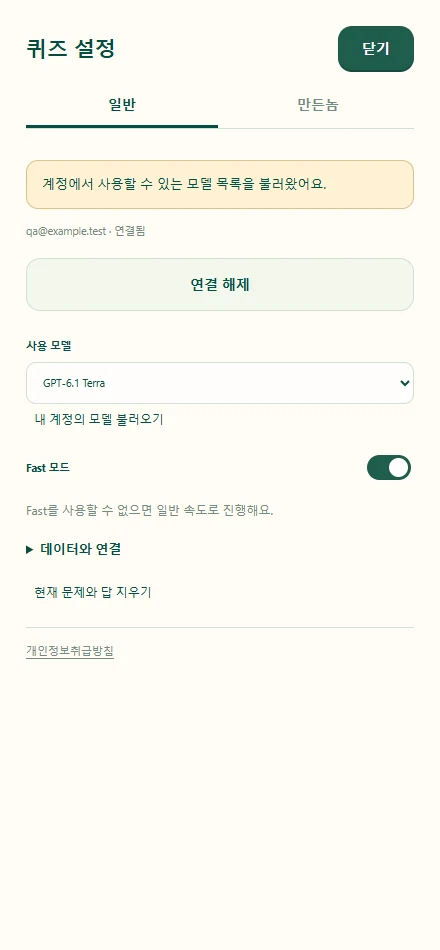
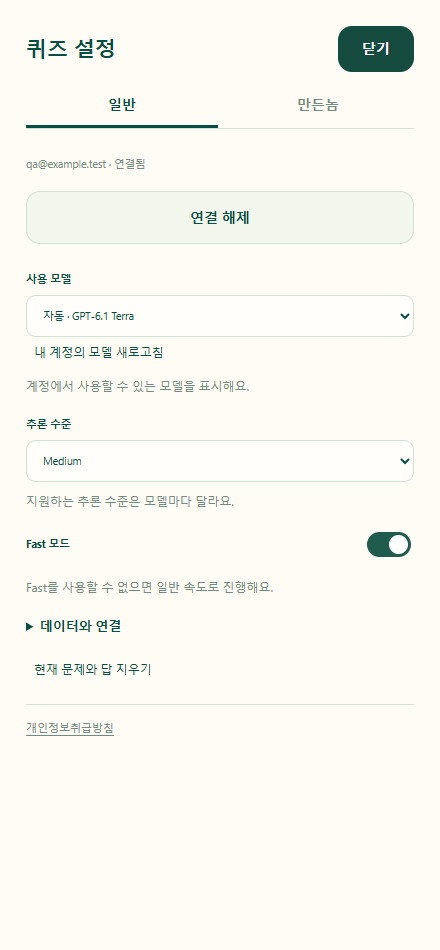
Release Day 018 0.1.10 with account model defaults

diff --git a/day-018-namuwiki-ox/extension/sidepanel.js b/day-018-namuwiki-ox/extension/sidepanel.js
@@ -1,11 +1,13 @@
 import {extractArticle} from './extract.js';
-import {models,generateQuiz} from './provider.js';
+import {DEFAULT_EFFORT,models,generateQuiz} from './provider.js';
 import {DEFAULT_MODEL,questionCount,isArticleUrl,validateArticle,score} from './shared/quiz.mjs';
 const $=id=>document.getElementById(id);
 const el=(tag,text)=>{const n=document.createElement(tag);n.textContent=text;return n;};
 let auth={},article=null,report=null,questions=[],answers={},index=0,sourceTabId=null,busy=false,reading=false,controller=null;
 let view='welcome',contextSupported=false,contextRevision=0,generationTimer=null,generationStartedAt=0;
 let articleIssue='';
+const LUNA_MODEL='gpt-6-luna';
+let preferredModel='',defaultModel='',modelIssue='',modelRequest=null;
 const windowId=(await chrome.windows.getCurrent()).id;
 const sessionKey=`quiz-window-${windowId}`;
 async function rpc(type){const r=await chrome.runtime.sendMessage({type});if(!r?.ok)throw Error(r?.error || '연결 요청을 완료하지 못했어요.');return r.data;}
@@ -67,11 +69,14 @@ function generationStage(stage){
   stages.forEach((name,i)=>{const node=$(`stage-${name}`);node.classList.toggle('done',i<current);node.classList.toggle('current',i===current);if(i===current)node.setAttribute('aria-current','step');else node.removeAttribute('aria-current');});
 }
 function controls(){
-  $('generate').disabled=busy || reading || !contextSupported || !auth.sharing || !article || !!articleIssue || !$('count').validity.valid;
-  $('generate').textContent=reading?'본문 읽는 중…':articleIssue || '퀴즈 만들기';
-  $('generate').classList.toggle('unavailable',!!articleIssue);
-  $('generate').title=articleIssue;
-  for(const id of ['count','model','fast','reload-models','clear-quiz'])$(id).disabled=busy || reading;
+  const issue=articleIssue || modelIssue;
+  $('generate').disabled=busy || reading || !contextSupported || !auth.sharing || !article || !!issue || !$('count').validity.valid;
+  $('generate').textContent=reading?'본문 읽는 중…':issue || '퀴즈 만들기';
+  $('generate').classList.toggle('unavailable',!!issue && !reading);
+  $('generate').title=issue;
+  for(const id of ['count','effort','fast','clear-quiz'])$(id).disabled=busy || reading;
+  $('model').disabled=busy || !!modelRequest || $('model').options.length===1;
+  $('reload-models').disabled=busy || !auth.sharing || !!modelRequest;
   $('minus').disabled=busy || Number($('count').value)<=5;$('plus').disabled=busy || Number($('count').value)>=20;
   $('stop').disabled=!busy;renderView();
 }
@@ -80,14 +85,22 @@ async function save(){
   await chrome.storage.session.set({[sessionKey]:{report,questions,answers,index,sourceTabId,view}});
 }
 function clear(){controller?.abort();contextRevision++;reading=false;article=null;articleIssue='';report=null;questions=[];answers={};index=0;sourceTabId=null;view='welcome';void chrome.storage.session.remove(sessionKey);$('article-title').textContent='나무위키 문서를 열어 주세요';$('article-info').textContent='본문에서만 출제해요';controls();}
-async function refreshAuth(){
+async function refreshAuth({reloadModels=false}={}){
   const was=auth.sharing;auth=await rpc('auth.status');
   $('login-gate').hidden=!!auth.sharing;$('workspace').hidden=!auth.sharing;
   for(const id of ['login','gate-login'])$(id).hidden=!!auth.pending || !!auth.sharing;
   for(const id of ['cancel-login','gate-cancel'])$(id).hidden=!auth.pending;
   $('logout').hidden=!auth.connected;
   $('account-status').textContent=auth.pending?'열린 탭에서 ChatGPT 로그인을 완료해 주세요.':auth.connected?`${auth.email || 'ChatGPT 계정'} · ${auth.sharing?'연결됨':'요금제 사용 권한 필요'}`:'ChatGPT 계정으로 연결해 주세요.';
-  if(!auth.sharing){clear();if(auth.pending)message('열린 탭에서 ChatGPT 로그인을 완료해 주세요.');}
+  $('login-hint').textContent=auth.connected?'이 계정에 출제용 ChatGPT 요금제 사용 권한이 없어요.':'ChatGPT 계정을 연결하고 시작해요.';
+  if(!auth.sharing){
+    modelRequest?.abort();modelRequest=null;modelIssue='';
+    renderModels([]);
+    $('model-status').textContent=auth.connected?'출제하려면 ChatGPT 요금제 사용 권한이 필요해요.':'ChatGPT를 연결하면 사용 가능한 모델을 불러와요.';
+    clear();if(auth.pending)message('열린 탭에서 ChatGPT 로그인을 완료해 주세요.');
+  }else if(!was || reloadModels){
+    void loadModels();
+  }
   if(auth.error)message(auth.error);
   controls();return !!auth.sharing && !was;
 }
@@ -99,13 +112,52 @@ async function capture(tab){
   if(captured.url.split('#')[0]!==tab.url.split('#')[0])throw Error('이동한 문서의 본문을 읽고 있어요. 잠시 후 다시 시도해 주세요.');
   return {captured,issue};
 }
+function renderModels(available){
+  const choices=new Map(available.map(model=>[model.id,model.name]));
+  // OAuth does not expose a subscription tier. Prefer Terra, then Luna if offered.
+  defaultModel=[DEFAULT_MODEL,LUNA_MODEL].find(id=>choices.has(id)) || '';
+  const autoLabel=defaultModel?`자동 · ${choices.get(defaultModel)}`:'자동 선택';
+  const options=[new Option(autoLabel,''),...[...choices].map(([id,name])=>new Option(name,id))];
+  if(preferredModel && !choices.has(preferredModel) && choices.size){
+    const unavailable=new Option(`${preferredModel} · 계정에서 사용 불가`,preferredModel);
+    unavailable.disabled=true;options.push(unavailable);
+  }
+  $('model').replaceChildren(...options);
+  $('model').value=choices.size?preferredModel:'';
+}
+function selectedModel(){
+  const option=$('model').selectedOptions[0];
+  return option && !option.disabled ? option.value || defaultModel : '';
+}
+function showModelSelection(){
+  const selected=selectedModel();
+  modelIssue=selected?'':'설정에서 사용 모델을 선택해 주세요';
+  $('model-status').textContent=selected?'계정에서 사용할 수 있는 모델을 표시해요.':modelIssue;
+}
 async function loadModels(){
-  if(!auth.sharing)throw Error('ChatGPT를 먼저 연결해 주세요.');
-  const saved=$('model').value || DEFAULT_MODEL,available=await models(AbortSignal.timeout(25000));
-  const unique=new Map([[DEFAULT_MODEL,{id:DEFAULT_MODEL,name:'GPT-6.1 Terra · 기본'}],...available.map(m=>[m.id,m])]);
-  if(!unique.has(saved))unique.set(saved,{id:saved,name:`${saved} · 목록에서 미확인`});
-  $('model').replaceChildren(...[...unique.values()].map(m=>{const o=el('option',m.name);o.value=m.id;return o;}));$('model').value=saved;
-  message(available.some(m=>m.id===saved)?'계정에서 사용할 수 있는 모델 목록을 불러왔어요.':'선택한 모델은 계정 목록에서 확인되지 않았어요. 기본값은 유지하며, 실제 사용 가능 여부는 요청 시 확인돼요.');
+  if(!auth.sharing)return;
+  modelRequest?.abort();
+  const request=new AbortController();
+  modelRequest=request;
+  modelIssue='계정의 모델을 확인하고 있어요…';
+  $('model-status').textContent=modelIssue;controls();
+  try{
+    const available=await models(AbortSignal.any([request.signal,AbortSignal.timeout(25000)]));
+    if(request.signal.aborted)return;
+    renderModels(available);
+    if(available.length)showModelSelection();
+    else {
+      modelIssue='이 계정에서 사용할 수 있는 모델이 없어요';
+      $('model-status').textContent=modelIssue;
+    }
+  }catch(error){
+    if(request.signal.aborted)return;
+    renderModels([]);
+    modelIssue='설정에서 모델 목록을 다시 불러와 주세요';
+    $('model-status').textContent=error.message;
+  }finally{
+    if(modelRequest===request){modelRequest=null;controls();}
+  }
 }
 function game(){
   const q=questions[index];if(!q)return results();
@@ -133,7 +185,8 @@ function results(){
   $('result-comment').textContent=correct===questions.length?'전부 맞혔어요! 지피쨩도 박수 짝짝 👏':'읽었는데 헷갈리는 건 정상! 본문 근거와 함께 다시 봐요.';
   $('retry-wrong').hidden=correct===questions.length;
   const tier={priority:'Fast',fast:'Fast',default:'일반',unreported:'미확인'};
-  $('request-meta').textContent=`${report.model} · ${report.fast?'Fast 요청':'일반 요청'}${report.compatibility.includes('standard_fallback')?' → 일반 처리 재요청':''} · 실제 처리: ${report.effectiveTiers.map(t=>tier[t] || t).join(', ')}${report.article.truncated?' · 일부 본문으로 출제':''} · ${new Date(report.article.capturedAt).toLocaleString('ko-KR')} 본문 기준`;
+  const effort=report.effort===undefined?'':` · 추론 ${report.effort || '모델 기본값'}`;
+  $('request-meta').textContent=`${report.model}${effort} · ${report.fast?'Fast 요청':'일반 요청'}${report.compatibility.includes('standard_fallback')?' → 일반 처리 재요청':''} · 실제 처리: ${report.effectiveTiers.map(t=>tier[t] || t).join(', ')}${report.article.truncated?' · 일부 본문으로 출제':''} · ${new Date(report.article.capturedAt).toLocaleString('ko-KR')} 본문 기준`;
   const list=$('review-list');list.replaceChildren();
   for(const [i,q] of questions.entries()){
     const a=el('article','');a.append(el('h2',`${i+1}. ${q.statement}`),el('p',`정답 ${q.answer?'O':'X'} · 내 답 ${answers[q.id]===true?'O':answers[q.id]===false?'X':'미응답'}`),el('p',q.explanation));
@@ -141,7 +194,8 @@ function results(){
   }
 }
 async function generate(){
-  if(busy || reading || !contextSupported || !auth.sharing || !article || articleIssue || !$('count').reportValidity())return;
+  const model=selectedModel();
+  if(busy || reading || !contextSupported || !auth.sharing || !article || articleIssue || modelIssue || !model || !$('count').reportValidity())return;
   // Freeze this quiz's source before yielding. Automatic context updates only affect the next quiz.
   const captured=article;
   busy=true;controller=new AbortController();settings(false);generationStage('reading');
@@ -150,8 +204,8 @@ async function generate(){
   controls();message('읽어 둔 본문으로 문제를 준비하고 있어요…');$('generation-heading').focus();
   try{
     controller.signal.throwIfAborted();
-    const selectedModel=$('model').value || DEFAULT_MODEL,count=questionCount($('count').value);
-    const next=await generateQuiz(captured,selectedModel,count,controller.signal,{fast:$('fast').checked,onPhase:message,onStage:generationStage});
+    const count=questionCount($('count').value);
+    const next=await generateQuiz(captured,model,count,controller.signal,{fast:$('fast').checked,effort:$('effort').value,onPhase:message,onStage:generationStage});
     controller.signal.throwIfAborted();
     report=next;questions=next.questions;answers={};index=0;game();
     await save();settings(false);message('');$('question').focus();
@@ -162,7 +216,8 @@ function home(){view='welcome';renderView();void syncContext().catch(e=>message(
 function retry(onlyWrong){const missed=questions.filter(q=>answers[q.id]!==q.answer);questions=onlyWrong?missed:report.questions;answers={};index=0;message('같은 문제로 다시 풀어요. 새 모델 요청은 보내지 않아요.');game();void save();}
 function wire(id,fn){$(id).addEventListener('click',()=>Promise.resolve().then(fn).catch(e=>message(e.message)));}
 wire('settings-toggle',()=>settings($('settings').hidden));wire('settings-close',()=>settings(false));
-$('creator-version').textContent=`지피쨩 나무위키 OX 퀴즈 · v${chrome.runtime.getManifest().version}`;
+const {name:extensionName,version:extensionVersion}=chrome.runtime.getManifest();
+$('creator-version').textContent=`${extensionName} · v${extensionVersion}`;
 for(const name of ['general','creator']){
   wire(`settings-tab-${name}`,()=>selectSettingsTab(name));
   $(`settings-tab-${name}`).addEventListener('keydown',event=>{if(!['ArrowLeft','ArrowRight','Home','End'].includes(event.key))return;event.preventDefault();selectSettingsTab(event.key==='Home'?'general':event.key==='End'?'creator':name==='general'?'creator':'general',true);});
@@ -177,17 +232,23 @@ wire('leave-game',home);wire('new-quiz',home);wire('retry-all',()=>retry(false))
 async function changeCount(delta){$('count').value=Math.min(20,Math.max(5,questionCount($('count').value)+delta));await chrome.storage.local.set({questionCount:Number($('count').value)});controls();}
 wire('minus',()=>changeCount(-1));wire('plus',()=>changeCount(1));
 $('count').addEventListener('input',controls);$('count').addEventListener('change',()=>{if($('count').validity.valid)void chrome.storage.local.set({questionCount:Number($('count').value)});controls();});
-$('model').addEventListener('change',()=>void chrome.storage.local.set({selectedModel:$('model').value}));
+$('model').addEventListener('change',()=>{
+  preferredModel=$('model').value;
+  void chrome.storage.local.set({selectedModel:preferredModel});
+  showModelSelection();controls();
+});
+$('effort').addEventListener('change',()=>void chrome.storage.local.set({selectedEffort:$('effort').value}));
 $('fast').addEventListener('change',()=>void chrome.storage.local.set({fastMode:$('fast').checked}));
 document.addEventListener('keydown',e=>{if(e.repeat || e.ctrlKey || e.metaKey || e.altKey || /INPUT|SELECT|TEXTAREA|BUTTON/.test(e.target.tagName) || !$('settings').hidden || $('game').hidden)return;if(e.key.toLowerCase()==='o')answer(true);if(e.key.toLowerCase()==='x')answer(false);});
 document.addEventListener('keydown',e=>{if(e.key==='Escape' && !$('settings').hidden){e.preventDefault();settings(false);}});
 chrome.tabs.onUpdated.addListener((id,info,tab)=>{if(tab.windowId===windowId && (tab.active || id===sourceTabId) && (info.url || info.status || info.title))void syncContext({reload:info.status==='complete' || !!info.title}).catch(e=>message(e.message));});
 chrome.tabs.onActivated.addListener(({windowId:id})=>{if(id===windowId)void syncContext().catch(e=>message(e.message));});
 chrome.tabs.onRemoved.addListener(()=>{void syncContext().catch(()=>{});});
-chrome.runtime.onMessage.addListener(event=>{if(event?.type==='auth.changed')void refreshAuth().then(added=>{if(added)return syncContext();}).catch(e=>message(e.message));});
-const prefs=await chrome.storage.local.get(['selectedModel','fastMode','questionCount']);
+chrome.runtime.onMessage.addListener(event=>{if(event?.type==='auth.changed')void refreshAuth({reloadModels:true}).then(added=>{if(added)return syncContext();}).catch(e=>message(e.message));});
+const prefs=await chrome.storage.local.get(['selectedModel','selectedEffort','fastMode','questionCount']);
 $('fast').checked=prefs.fastMode!==false;$('count').value=questionCount(prefs.questionCount);
-if(prefs.selectedModel && prefs.selectedModel!==DEFAULT_MODEL){const o=el('option',prefs.selectedModel);o.value=prefs.selectedModel;$('model').append(o);$('model').value=prefs.selectedModel;}
+preferredModel=typeof prefs.selectedModel==='string'?prefs.selectedModel:'';
+$('effort').value=[...$('effort').options].some(option=>option.value===prefs.selectedEffort)?prefs.selectedEffort:DEFAULT_EFFORT;
 try{
   await syncContext();
   await refreshAuth();

diff --git a/day-018-namuwiki-ox/extension/sidepanel.html b/day-018-namuwiki-ox/extension/sidepanel.html
@@ -1,5 +1,5 @@
 <!doctype html>
-<html lang="ko"><head><meta charset="utf-8"><meta name="viewport" content="width=device-width,initial-scale=1"><title>지피쨩 OX 퀴즈</title><link rel="stylesheet" href="panel.css"></head>
+<html lang="ko"><head><meta charset="utf-8"><meta name="viewport" content="width=device-width,initial-scale=1"><title>나무위키 OX 퀴즈</title><link rel="stylesheet" href="panel.css"></head>
 <body><main>
   <section id="settings" hidden aria-labelledby="settings-heading">
     <div class="settings-header"><div class="row"><h1 id="settings-heading">퀴즈 설정</h1><button id="settings-close" class="settings-close">닫기</button></div>
@@ -7,10 +7,14 @@
     <div id="settings-general" role="tabpanel" aria-labelledby="settings-tab-general">
     <p id="account-status" class="muted">ChatGPT 연결 확인 중</p>
     <div class="row"><button id="login" class="secondary">ChatGPT로 로그인</button><button id="cancel-login" class="secondary" hidden>로그인 취소</button><button id="logout" class="secondary" hidden>연결 해제</button></div>
-    <label for="model">사용 모델</label><select id="model"><option value="gpt-6.1-terra">GPT-6.1 Terra · 기본</option></select><button id="reload-models" class="text-button">내 계정의 모델 불러오기</button>
+    <label for="model">사용 모델</label><select id="model" aria-describedby="model-status"><option value="">자동 선택</option></select><button id="reload-models" class="text-button">내 계정의 모델 새로고침</button>
+    <p id="model-status" class="small muted" role="status">ChatGPT를 연결하면 사용 가능한 모델을 불러와요.</p>
+    <label for="effort">추론 수준</label>
+    <select id="effort" aria-describedby="effort-help"><option value="none">None</option><option value="low">Low</option><option value="medium" selected>Medium</option><option value="high">High</option><option value="xhigh">Extra High</option><option value="max">Max</option><option value="">모델 기본값</option></select>
+    <p id="effort-help" class="small muted">지원하는 추론 수준은 모델마다 달라요.</p>
     <label class="toggle"><span><b>Fast 모드</b></span><input id="fast" type="checkbox" role="switch" checked></label>
     <p class="small muted">Fast를 사용할 수 없으면 일반 속도로 진행해요.</p>
-    <details><summary>데이터와 연결</summary><p class="small">별도 자체 서버 없이 Chrome 확장 안에서 동작해요. 로그인·갱신·모델 조회는 OpenAI에 직접 연결하며, 퀴즈 만들기를 누르면 현재 문서의 추출된 본문이 OpenAI로 전송돼요. 외부 검색은 사용하지 않아요.</p><p class="small">모델·문제 수·Fast 설정은 이 Chrome 프로필에만 저장해요. 문제와 답은 브라우저 세션 동안만 보관하며 연결 해제 시 지워요. 인증정보는 확장 전용 IndexedDB에 암호화해 저장해요.</p></details>
+    <details><summary>데이터와 연결</summary><p class="small">별도 자체 서버 없이 Chrome 확장 안에서 동작해요. 로그인·갱신·모델 조회는 OpenAI에 직접 연결하며, 퀴즈 만들기를 누르면 현재 문서의 추출된 본문이 OpenAI로 전송돼요. 외부 검색은 사용하지 않아요.</p><p class="small">모델·추론 수준·문제 수·Fast 설정은 이 Chrome 프로필에만 저장해요. 문제와 답은 브라우저 세션 동안만 보관하며 연결 해제 시 지워요. 인증정보는 확장 전용 IndexedDB에 암호화해 저장해요.</p></details>
     <button id="clear-quiz" class="text-button">현재 문제와 답 지우기</button>
     </div>
     <div id="settings-creator" class="creator" role="tabpanel" aria-labelledby="settings-tab-creator" hidden>
@@ -22,7 +26,7 @@
     <p class="settings-footer"><a id="privacy-policy" href="https://daily-odd-builds-portal.web.app/privacy/namuwiki-ox" target="_blank" rel="noopener noreferrer">개인정보취급방침</a></p>
   </section>
 <div id="panel-content">
-  <header><span class="brand">지피쨩 OX 퀴즈</span><button id="settings-toggle" class="icon" aria-label="설정 열기" aria-expanded="false"><svg viewBox="0 0 24 24" fill="none" stroke="currentColor" stroke-width="1.8" aria-hidden="true"><path d="m9 3-.5 2-2 .9-1.9-.5-2 3.4L4 10.2v2.3l-1.4 1.4 2 3.4 1.9-.5 2 .9.5 2h4l.5-2 2-.9 1.9.5 2-3.4-1.4-1.4v-2.3l1.4-1.4-2-3.4-1.9.5-2-.9-.5-2Z"/><circle cx="11" cy="11.5" r="3"/></svg></button></header>
+  <header><span class="brand">나무위키 OX 퀴즈</span><button id="settings-toggle" class="icon" aria-label="설정 열기" aria-expanded="false"><svg viewBox="0 0 24 24" fill="none" stroke="currentColor" stroke-width="1.8" aria-hidden="true"><path d="m9 3-.5 2-2 .9-1.9-.5-2 3.4L4 10.2v2.3l-1.4 1.4 2 3.4 1.9-.5 2 .9.5 2h4l.5-2 2-.9 1.9.5 2-3.4-1.4-1.4v-2.3l1.4-1.4-2-3.4-1.9.5-2-.9-.5-2Z"/><circle cx="11" cy="11.5" r="3"/></svg></button></header>
   <div id="message" class="notice" role="status" aria-live="polite" hidden></div>
   <section id="unsupported" class="unsupported" hidden aria-labelledby="unsupported-heading"><img src="assets/gpichan-wiki-guide.webp" alt="위키 책을 펼치고 문서로 안내하는 지피쨩" width="220" height="220"><h1 id="unsupported-heading">나무위키 문서에서 만나요</h1><p class="muted">지금 탭은 나무위키 문서가 아니에요.<br>궁금한 문서를 열면 지피쨩이<br>그 본문으로 OX 퀴즈를 만들어 드려요.</p><a id="namuwiki-open" class="primary" href="https://namu.wiki/" target="_blank" rel="noopener noreferrer">나무위키 바로가기 ↗</a><p class="small muted">문서를 열면 출제 대상을 자동으로 바꿔요.</p></section>
   <section id="generation" class="generation" aria-labelledby="generation-heading" aria-busy="true" hidden>
@@ -38,7 +42,7 @@
   <section id="welcome">
     <img class="host" src="assets/gpichan-quiz.png" alt="O와 X 팻말을 든 지피쨩" width="290" height="290">
     <h1 class="headline">읽던 문서가<br>오늘의 퀴즈로</h1>
-    <div id="login-gate"><p>나무위키 읽다가, 지피쨩과 한 판!<br>ChatGPT 계정을 연결하고 시작해요.</p><button id="gate-login" class="primary">ChatGPT로 로그인</button><button id="gate-cancel" class="secondary" hidden>로그인 취소</button></div>
+    <div id="login-gate"><p>나무위키 읽다가, 지피쨩과 한 판!<br><span id="login-hint">ChatGPT 계정을 연결하고 시작해요.</span></p><button id="gate-login" class="primary">ChatGPT로 로그인</button><button id="gate-cancel" class="secondary" hidden>로그인 취소</button></div>
     <div id="workspace" hidden>
       <section class="document"><span class="muted">현재 문서</span><h2 id="article-title">나무위키 문서를 열어 주세요</h2><p id="article-info" class="muted">본문에서만 출제해요</p></section>
       <div class="quantity"><label for="count">문제 수</label><div class="stepper"><button id="minus" aria-label="문제 수 줄이기">−</button><input id="count" aria-label="문제 수" type="number" min="5" max="20" step="1" value="10"><button id="plus" aria-label="문제 수 늘리기">+</button></div><small class="muted">5–20문제</small></div>

diff --git a/day-018-namuwiki-ox/extension/provider.js b/day-018-namuwiki-ox/extension/provider.js
@@ -2,25 +2,28 @@ import {readModelResponse} from './shared/model-response.mjs';
 import {responseText} from './shared/report.mjs';
 import {validateArticle,validateQuiz,questionCount,quizSchema} from './shared/quiz.mjs';
 const API='https://api.openai.com/v1';
+export const DEFAULT_EFFORT='medium';
 async function token(){const r=await chrome.runtime.sendMessage({type:'auth.token'});if(!r?.ok)throw Error(r?.error || 'ChatGPT에 다시 로그인해 주세요.');return r.data;}
 export async function models(signal){
   const r=await fetch(`${API}/models`,{headers:{Authorization:`Bearer ${await token()}`},credentials:'omit',cache:'no-store',signal});
+  if(r.status===403)throw Error('이 계정의 ChatGPT 요금제 사용 권한을 확인해 주세요.');
   if(!r.ok)throw Error('계정의 모델 목록을 읽지 못했습니다. 연결과 사용 권한을 확인해 주세요.');
   const data=await r.json();
-  if(!Array.isArray(data.models))throw Error('계정별 모델 목록 형식을 확인하지 못했습니다.');
-  return data.models.filter(m=>m.visibility==='list' && typeof m.slug==='string').map(m=>({id:m.slug,name:m.display_name || m.slug}));
+  if(!Array.isArray(data?.models))throw Error('계정별 모델 목록 형식을 확인하지 못했습니다.');
+  return data.models.filter(m=>m?.visibility==='list' && typeof m.slug==='string' && m.slug.trim()).map(m=>({id:m.slug,name:m.display_name || m.slug}));
 }
 // Day 17 wire compatibility: priority -> fast alias -> disclosed standard fallback.
 // Never change models, enable a tool, or relax the local evidence checks.
 export async function request(model,instructions,input,schema,signal,options={}){
   let tier=options.fast===false?'default':'priority',format=true;
+  const effort=options.effort ?? DEFAULT_EFFORT;
   const compatibility=[];
   for(let attempt=0;attempt<5;attempt++){
     signal?.throwIfAborted();
     try{
       const requestSignal=AbortSignal.any([...(signal?[signal]:[]),AbortSignal.timeout(150000)]);
       const r=await fetch(`${API}/responses`,{method:'POST',headers:{Authorization:`Bearer ${await token()}`,'Content-Type':'application/json',Accept:'text/event-stream, application/json'},
-        credentials:'omit',cache:'no-store',signal:requestSignal,body:JSON.stringify({model,store:false,stream:true,...(tier?{service_tier:tier}:{}),instructions:`${instructions}\nReturn ONLY JSON matching this schema: ${JSON.stringify(schema)}. No markdown fences.`,input:[{role:'user',content:JSON.stringify(input)}],...(format?{text:{format:{type:'json_schema',name:'namuwiki_ox',strict:true,schema}}}:{})})});
+        credentials:'omit',cache:'no-store',signal:requestSignal,body:JSON.stringify({model,store:false,stream:true,...(tier?{service_tier:tier}:{}),...(effort?{reasoning:{effort}}:{}),instructions:`${instructions}\nReturn ONLY JSON matching this schema: ${JSON.stringify(schema)}. No markdown fences.`,input:[{role:'user',content:JSON.stringify(input)}],...(format?{text:{format:{type:'json_schema',name:'namuwiki_ox',strict:true,schema}}}:{})})});
       const {completed}=await readModelResponse(r,requestSignal);
       if(completed.output.some(o=>o.type!=='message' && o.type!=='reasoning'))throw Error('요청하지 않은 외부 도구 결과가 있어 문제를 표시하지 않았어요.');
       if(completed.output.some(o=>(o.content || []).some(c=>c.type==='refusal')))throw Error('이 문서로 문제를 만들 수 없다는 응답을 받았어요. 다른 문서로 시도해 주세요.');
@@ -61,7 +64,7 @@ export async function generateQuiz(article,model,count,signal,options={}){
       responses.push(edited);draft=edited.parsed;
       const questions=validateQuiz(draft,article,count);
       if(!questions.some(q=>q.answer) || !questions.some(q=>!q.answer))throw Object.assign(Error('O와 X가 모두 필요합니다.'),{code:'quiz_balance'});
-      return {questions,article,model,fast:options.fast!==false,effectiveTiers:[...new Set(responses.map(r=>r.effectiveTier))],compatibility:[...new Set(responses.flatMap(r=>r.compatibility))],editorPasses:pass+1,createdAt:new Date().toISOString()};
+      return {questions,article,model,effort:options.effort ?? DEFAULT_EFFORT,fast:options.fast!==false,effectiveTiers:[...new Set(responses.map(r=>r.effectiveTier))],compatibility:[...new Set(responses.flatMap(r=>r.compatibility))],editorPasses:pass+1,createdAt:new Date().toISOString()};
     }catch(error){
       if(!['quiz_json','quiz_evidence','quiz_balance'].includes(error.code))throw error;
       feedback=error.code==='quiz_balance'?'Include both true and false questions.':error.code==='quiz_json'?'Return the complete questions JSON, not commentary.':'Fix the exact question count, nonduplicate statements (1-300 characters), valid sourceIds, VERBATIM contiguous quotes (12-1400 characters), concise explanations (1-700 characters) without URLs, and factual corrections for false answers (1-300 characters). Use ONLY original sourceBlocks. Distinct facts may share a source paragraph or quote.';

diff --git a/day-018-namuwiki-ox/extension/auth-result.html b/day-018-namuwiki-ox/extension/auth-result.html
@@ -1,1 +1,1 @@
-<!doctype html><html lang="ko"><head><meta charset="utf-8"><meta name="viewport" content="width=device-width,initial-scale=1"><title>지피쨩 · ChatGPT 로그인</title><link rel="stylesheet" href="panel.css"></head><body><main><h1>지피쨩과 연결하기</h1><p id="result" role="status">로그인 상태를 확인하고 있습니다.</p><p>이 탭을 닫고 나무위키 탭의 사이드패널로 돌아가세요.</p></main><script type="module" src="auth-result.js"></script></body></html>
+<!doctype html><html lang="ko"><head><meta charset="utf-8"><meta name="viewport" content="width=device-width,initial-scale=1"><title>나무위키 OX 퀴즈 · ChatGPT 로그인</title><link rel="stylesheet" href="panel.css"></head><body><main><h1>ChatGPT 계정 연결</h1><p id="result" role="status">로그인 상태를 확인하고 있습니다.</p><p>이 탭을 닫고 나무위키 탭의 사이드패널로 돌아가세요.</p></main><script type="module" src="auth-result.js"></script></body></html>

diff --git a/day-018-namuwiki-ox/extension/connection.js b/day-018-namuwiki-ox/extension/connection.js
@@ -1,7 +1,7 @@
 import {ChatGPTConnection as SharedConnection,makeAttempt as sharedAttempt} from './vendor/chatgpt-auth/connection.js';
 import {credentialStore} from './credentials.js';
 export {b64url,validateCallback,verifyIdToken,jsonRequest,REFRESH_LIFETIME,RENEWAL_WINDOW} from './vendor/chatgpt-auth/connection.js';
-const appName="지피쨩 나무위키 OX 퀴즈";
+const appName="나무위키 OX 퀴즈";
 export const makeAttempt=(hostId,clientId)=>sharedAttempt(hostId,clientId,{appName});
 export class ChatGPTConnection extends SharedConnection {
   constructor(options={}){super({appName,store:credentialStore,...options});}

diff --git a/day-018-namuwiki-ox/docs/RELEASE.md b/day-018-namuwiki-ox/docs/RELEASE.md
@@ -1,3 +1,19 @@
+# 0.1.10 · 계정 모델 자동 선택과 추론 설정 · 2026-11-06
+
+확장 이름을 **나무위키 OX 퀴즈**로 변경했습니다.
+
+로그인한 계정의 모델 목록에 GPT-6.1 Terra가 있으면 우선 선택하고, Terra가 없고 GPT-6 Luna가 있으면 Luna를 선택합니다. 두 모델 모두 기본 추론 수준은 Medium이며 Fast는 켜져 있습니다. 설정에서 모델·추론 수준·Fast를 바꿀 수 있습니다.
+
+ChatGPT 로그인 응답에는 구독 등급이 제공되지 않습니다. 출제 권한과 모델 선택은 계정이 부여한 권한과 모델 목록에 따릅니다. Fast 요청이 거절되면 일반 처리로 재시도합니다.
+
+- 정적 검사, 단위 테스트 44개, 격리 Windows Chrome에서 합성 OAuth·본문·모델 흐름을 확인했습니다. Terra 우선, Luna 차선과 Medium·Fast 요청, 수동 설정 보존을 검사했습니다.
+- 로컬 원본·dist·설치 ZIP의 28개 파일을 비교했습니다. 공개 소스에서 설치 ZIP을 동일하게 재현했습니다.
+- 실제 ChatGPT 구독 계정의 모델 호출과 Chrome 웹 스토어 설치는 이번 검증 범위 밖입니다.
+
+기존 설치 폴더에 새 파일을 풀고 Chrome 확장 관리 화면에서 새로고침하세요.
+
+[0.1.10 설치 ZIP·소스 ZIP·SHA-256](https://github.com/hssum9409/daily_odd_builds-public/releases/tag/day018-namuwiki-ox-v0.1.10) · [설치 안내](INSTALLATION.md)
+
 # 0.1.7 · 문서 자동 반영 · 2026-11-05
 
 문서·탭이 바뀌면 다음 출제 대상을 자동으로 읽습니다. 출제 중이거나 풀고 있는 퀴즈는 기존 본문·답·진행 위치를 유지하며 나무위키 밖에서도 계속 진행합니다. 결과 화면도 유지하고, 새 퀴즈 준비 화면에서만 나무위키 안내 에셋을 표시합니다. 문서 변경 안내와 갱신·다시 읽기 버튼은 제거했습니다.

diff --git a/day-018-namuwiki-ox/docs/INSTALLATION.md b/day-018-namuwiki-ox/docs/INSTALLATION.md
@@ -1,6 +1,6 @@
 # 설치와 업데이트
 
-1. [0.1.7 실행 ZIP](https://github.com/hssum9409/daily_odd_builds-public/releases/download/day018-namuwiki-ox-v0.1.7/gpichan-namuwiki-ox-0.1.7.zip)을 받아 계속 보관할 폴더에 전부 압축 해제합니다.
+1. [0.1.10 실행 ZIP](https://github.com/hssum9409/daily_odd_builds-public/releases/download/day018-namuwiki-ox-v0.1.10/gpichan-namuwiki-ox-0.1.10.zip)을 받아 계속 보관할 폴더에 전부 압축 해제합니다.
 2. Chrome에서 `chrome://extensions`를 열고 **개발자 모드**를 켭니다.
 3. **압축해제된 확장 프로그램을 로드합니다**를 눌러 `manifest.json`이 있는 폴더를 선택합니다.
 4. 나무위키 문서 탭에서 확장 아이콘을 눌러 사이드패널을 엽니다.
@@ -14,4 +14,4 @@
 
 잘못되거나 애매한 초안은 자동으로 수정·교체합니다. 본문 길이 때문에 출제할 수 없으면 출제 버튼에 이유를 표시합니다. 문서·탭을 바꾸면 본문을 자동으로 읽습니다. 출제 중이거나 풀고 있는 퀴즈는 다른 문서·사이트로 이동해도 원래 본문과 답안을 유지합니다. 나무위키 안내는 새 퀴즈 준비 화면에서만 표시합니다. 나무위키의 접근 확인·로그인 제한을 우회하지 않습니다.
 
-공개 소스를 사용한다면 이 폴더의 `extension/`을 직접 로드할 수 있습니다. [개발·로컬 검사](DEVELOPMENT.md) · [데이터 처리](DATA.md) · [릴리즈](https://github.com/hssum9409/daily_odd_builds-public/releases/tag/day018-namuwiki-ox-v0.1.7)
+공개 소스를 사용한다면 이 폴더의 `extension/`을 직접 로드할 수 있습니다. [개발·로컬 검사](DEVELOPMENT.md) · [데이터 처리](DATA.md) · [릴리즈](https://github.com/hssum9409/daily_odd_builds-public/releases/tag/day018-namuwiki-ox-v0.1.10)

diff --git a/day-018-namuwiki-ox/docs/DATA.md b/day-018-namuwiki-ox/docs/DATA.md
@@ -11,7 +11,7 @@
 | 저장 위치 | 내용 | 수명 |
 | --- | --- | --- |
 | 확장 IndexedDB | AES-GCM 암호화된 access/refresh token, 계정 이름·ID·scope, 비추출 키 | 연결 해제 또는 확장 제거까지 |
-| `chrome.storage.local` | 모델·Fast·문제 수, 공개 client ID·host ID·동일 계정 확인용 subject, 토큰 갱신 일정 | 해당 프로필에 유지 |
+| `chrome.storage.local` | 모델·추론 수준·Fast·문제 수, 공개 client ID·host ID·동일 계정 확인용 subject, 토큰 갱신 일정 | 해당 프로필에 유지 |
 | `chrome.storage.session` | 진행 중 PKCE/로그인 시도, 창별 출제 본문·문제·답·점수·진행 위치 | 브라우저 세션; 로그아웃 시 해당 확장의 퀴즈 전부 삭제 |
 
 동기화 저장소·자체 수집 서버·원격 분석·신고 기능이 없습니다. 콘텐츠 스크립트에는 Chrome 저장소 접근을 허용하지 않습니다. 토큰을 패널 요청으로 전달하는 메시지는 확장 자체의 패널·인증결과 페이지로 제한합니다. 다른 앱·Day의 인증정보를 읽거나 복사하지 않습니다.

diff --git a/day-018-namuwiki-ox/docs/ARTWORK.md b/day-018-namuwiki-ox/docs/ARTWORK.md
@@ -14,3 +14,5 @@
 루트 MIT 라이선스는 코드와 문서에 적용되며 캐릭터·아이콘·생성 일러스트를 별도 포괄 허가하거나 제3자의 상표·캐릭터 권리를 부여하지 않습니다. OpenAI·나무위키 공식 로고나 공식 제품이라는 표시는 아닙니다.
 
 0.1.7의 `ui-ready.webp`는 2026-11-05 로컬 회귀 검사에서 실행한 실제 확장 HTML의 준비 화면(440×950)을 손실 없는 WebP로 변환한 캡처입니다. 본문·OAuth·모델은 합성 자료이며, 제거한 수동 갱신 버튼이 없는 현재 화면을 반영합니다. 기존 hero·promotion·feature 일러스트는 재사용했습니다.
+
+0.1.10의 준비 화면과 설정 화면은 격리 Chrome에서 합성 계정·본문을 사용해 캡처했습니다. 첫 공개 일러스트의 제목은 당시 표기입니다.

diff --git a/day-018-namuwiki-ox/docs/DEVELOPMENT.md b/day-018-namuwiki-ox/docs/DEVELOPMENT.md
@@ -1,5 +1,7 @@
 # 공개 소스 개발
 
+0.1.10에서는 계정 목록에서 Terra를 우선 선택하고 Terra가 없으면 목록에 있는 GPT-6 Luna를 선택합니다. 기본 추론 수준은 Medium이며 Fast는 켜져 있습니다.
+
 0.1.7은 문서·탭을 바꾸면 다음 출제 대상을 자동 반영합니다. 출제·풀이·결과 화면은 현재 탭과 독립적으로 유지하며 문서 변경 안내와 갱신·다시 읽기 버튼을 제거했습니다.
 
 Node.js 22 이상(이번 검사는 24.19.0), Python 3, Chrome을 사용합니다. 확장 자체에는 Node/Python이 필요하지 않습니다.
